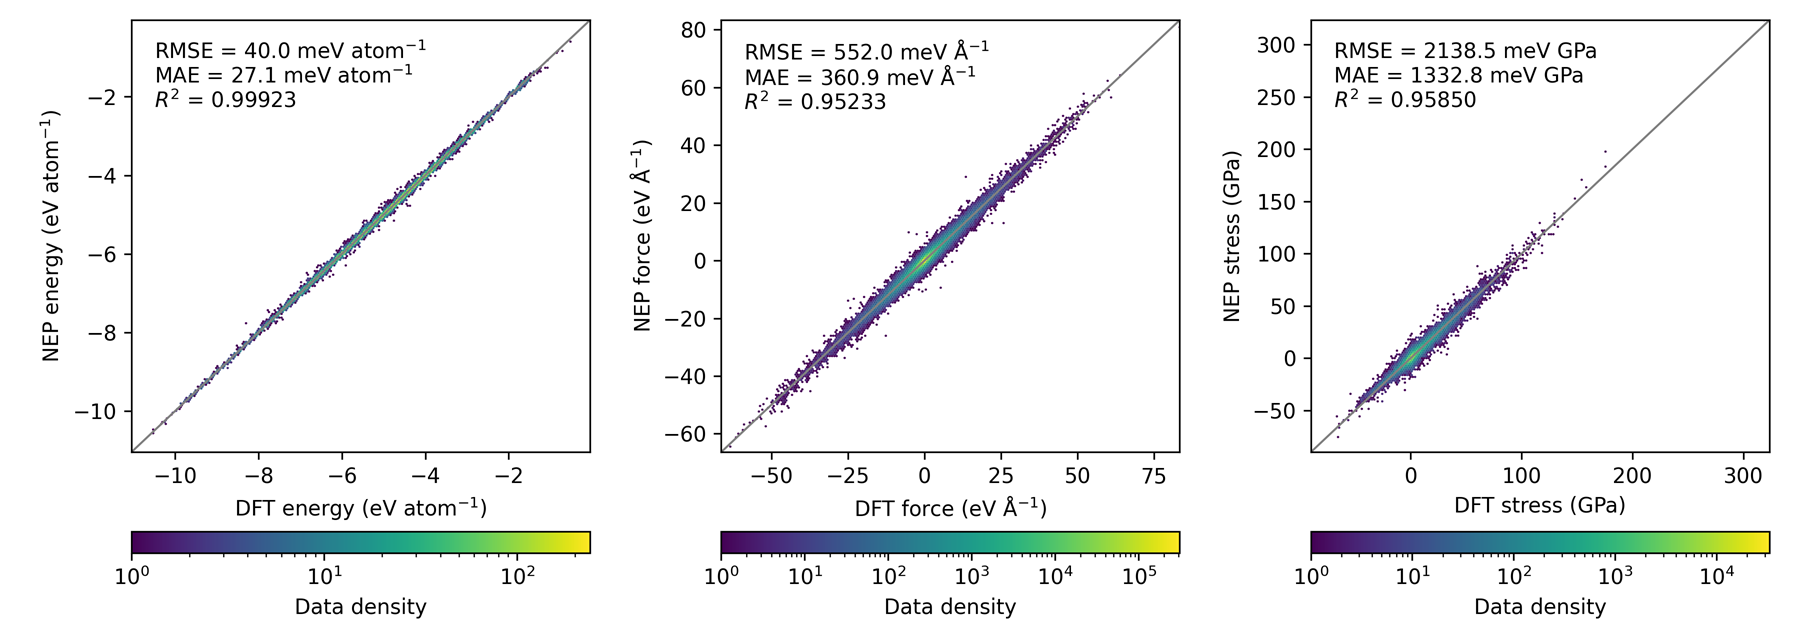
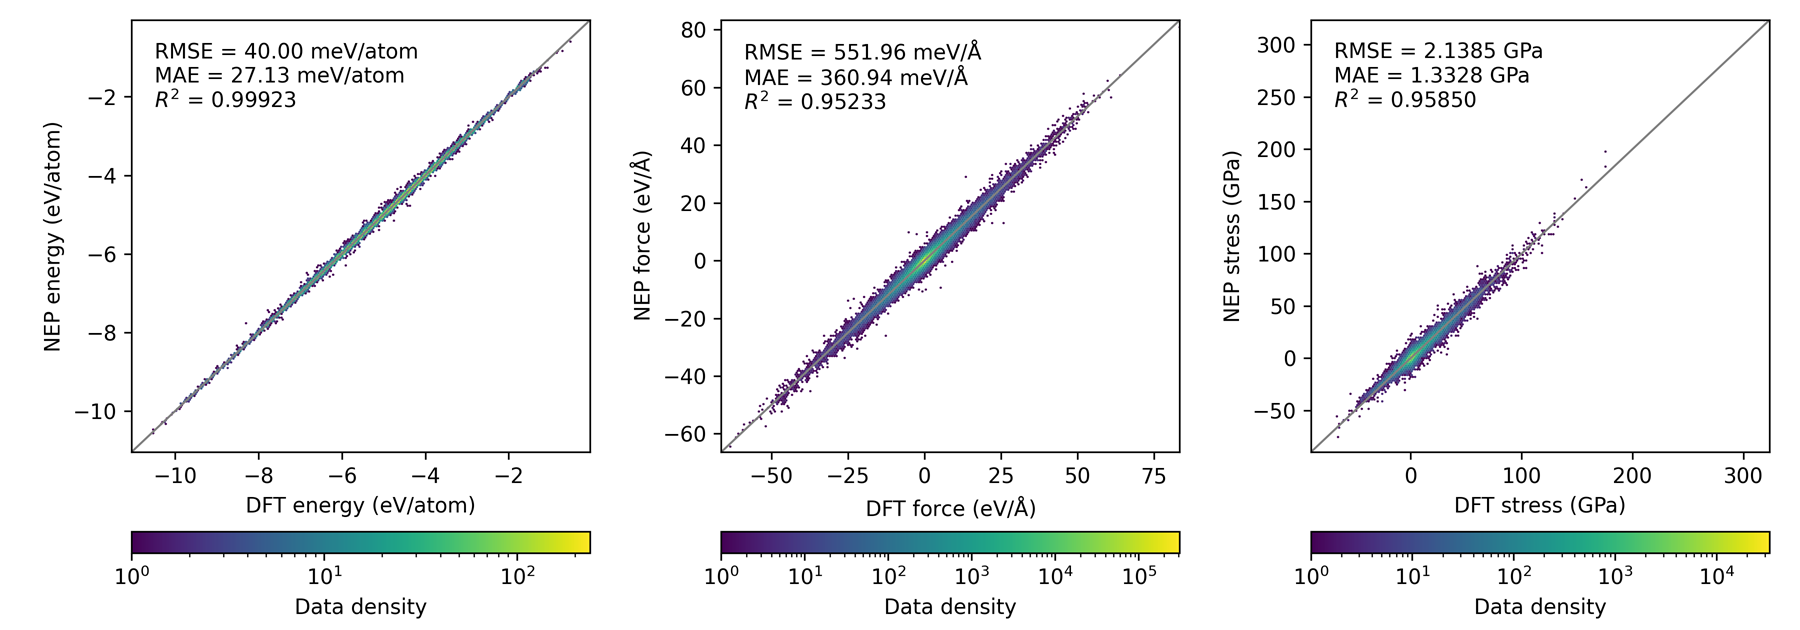
update

diff --git a/Scripts/plt_scripts/plt_parity_density.py b/Scripts/plt_scripts/plt_parity_density.py
@@ -17,77 +17,101 @@ energy_data = np.loadtxt('energy_train.out')
 force_data = np.loadtxt('force_train.out')
 stress_data = np.loadtxt('stress_train.out')
 
-# === Metric Function ===
-def compute_metrics(y_true, y_pred):
-    rmse = np.sqrt(mean_squared_error(y_true, y_pred)) * 1000
-    mae = mean_absolute_error(y_true, y_pred) * 1000
-    r2 = r2_score(y_true, y_pred)
-    return rmse, mae, r2
-
-# === Plot Function ===
-def parity_density_plot(ax, x, y, xlabel, ylabel, unit_str, cmap, bins):
-    xmin, xmax = np.min([x, y]), np.max([x, y])
-    ax.set_xlim(xmin, xmax)
-    ax.set_ylim(xmin, xmax)
-
-    hb = ax.hexbin(x, y, gridsize=bins, cmap=cmap,
-                   norm=LogNorm(), mincnt=1, linewidths=0)
-
-    ax.plot([xmin, xmax], [xmin, xmax], color='gray', linestyle='-', linewidth=1)
-    ax.set_xlabel(xlabel, fontsize=FONT_SIZE)
-    ax.set_ylabel(ylabel, fontsize=FONT_SIZE)
-    ax.tick_params(labelsize=FONT_SIZE)
-
-    # Metrics
-    rmse, mae, r2 = compute_metrics(y, x)
-    ax.text(0.05, 0.95,
-            f"RMSE = {rmse:.1f} meV {unit_str}\n"
-            f"MAE = {mae:.1f} meV {unit_str}\n"
-            r"$R^2$" + f" = {r2:.5f}",
-            transform=ax.transAxes,
-            fontsize=FONT_SIZE,
-            va='top', ha='left')
-
-    return hb
-
 # === Layout Setup ===
-fig = plt.figure(figsize=(12, 4.2), dpi=120)
+fig = plt.figure(figsize=(12, 4.2), dpi=1000)
 gs = GridSpec(2, 3, height_ratios=[4, 0.2], hspace=0.35)
 cmap = plt.get_cmap(COLORMAP)
-
-# === Plot Creation Function ===
-def create_plot(ax, cb_ax, x, y, xlabel, ylabel, unit_str, cmap, bins):
-    hb = parity_density_plot(ax, x, y, xlabel, ylabel, unit_str, cmap, bins)
-    cb = fig.colorbar(hb, cax=cb_ax, orientation='horizontal')
-    cb.set_label("Data density", fontsize=FONT_SIZE)
-    cb.ax.tick_params(labelsize=FONT_SIZE)
-    cb.locator = LogLocator(base=10.0)  
-    cb.formatter = LogFormatterMathtext(base=10, labelOnlyBase=True)  
-    cb.update_ticks()
 
 # === Energy ===
 ax1 = fig.add_subplot(gs[0, 0])
 cb1_ax = fig.add_subplot(gs[1, 0])
-create_plot(ax1, cb1_ax, energy_data[:, 1], energy_data[:, 0],
-            "DFT energy (eV atom$^{-1}$)",
-            "NEP energy (eV atom$^{-1}$)",
-            "atom$^{-1}$", cmap, BINS)
+xmin, xmax = np.min([energy_data[:, 1], energy_data[:, 0]]), np.max([energy_data[:, 1], energy_data[:, 0]])
+ax1.set_xlim(xmin, xmax)
+ax1.set_ylim(xmin, xmax)
+hb1 = ax1.hexbin(energy_data[:, 1], energy_data[:, 0], gridsize=BINS, cmap=cmap,
+                 norm=LogNorm(), mincnt=1, linewidths=0)
+ax1.plot([xmin, xmax], [xmin, xmax], color='gray', linestyle='-', linewidth=1)
+ax1.set_xlabel("DFT energy (eV/atom)", fontsize=FONT_SIZE)
+ax1.set_ylabel("NEP energy (eV/atom)", fontsize=FONT_SIZE)
+ax1.tick_params(labelsize=FONT_SIZE)
+rmse = np.sqrt(mean_squared_error(energy_data[:, 0], energy_data[:, 1])) * 1000
+mae = mean_absolute_error(energy_data[:, 0], energy_data[:, 1]) * 1000
+r2 = r2_score(energy_data[:, 0], energy_data[:, 1])
+ax1.text(0.05, 0.95,
+         f"RMSE = {rmse:.2f} meV/atom\n"
+         f"MAE = {mae:.2f} meV/atom\n"
+         r"$R^2$" + f" = {r2:.5f}",
+         transform=ax1.transAxes,
+         fontsize=FONT_SIZE,
+         va='top', ha='left')
+cb1 = fig.colorbar(hb1, cax=cb1_ax, orientation='horizontal')
+cb1.set_label("Data density", fontsize=FONT_SIZE)
+cb1.ax.tick_params(labelsize=FONT_SIZE)
+cb1.locator = LogLocator(base=10.0)
+cb1.formatter = LogFormatterMathtext(base=10, labelOnlyBase=True)
+cb1.update_ticks()
 
 # === Force ===
 ax2 = fig.add_subplot(gs[0, 1])
 cb2_ax = fig.add_subplot(gs[1, 1])
-create_plot(ax2, cb2_ax, force_data[:, 3:6].reshape(-1), force_data[:, 0:3].reshape(-1),
-            "DFT force (eV Å$^{-1}$)",
-            "NEP force (eV Å$^{-1}$)",
-            "Å$^{-1}$", cmap, BINS)
+x_force = force_data[:, 3:6].reshape(-1)
+y_force = force_data[:, 0:3].reshape(-1)
+xmin, xmax = np.min([x_force, y_force]), np.max([x_force, y_force])
+ax2.set_xlim(xmin, xmax)
+ax2.set_ylim(xmin, xmax)
+hb2 = ax2.hexbin(x_force, y_force, gridsize=BINS, cmap=cmap,
+                 norm=LogNorm(), mincnt=1, linewidths=0)
+ax2.plot([xmin, xmax], [xmin, xmax], color='gray', linestyle='-', linewidth=1)
+ax2.set_xlabel("DFT force (eV/$\mathrm{\AA}$)", fontsize=FONT_SIZE)
+ax2.set_ylabel("NEP force (eV/$\mathrm{\AA}$)", fontsize=FONT_SIZE)
+ax2.tick_params(labelsize=FONT_SIZE)
+rmse = np.sqrt(mean_squared_error(y_force, x_force)) * 1000
+mae = mean_absolute_error(y_force, x_force) * 1000
+r2 = r2_score(y_force, x_force)
+ax2.text(0.05, 0.95,
+         f"RMSE = {rmse:.2f} meV/Å\n"
+         f"MAE = {mae:.2f} meV/Å\n"
+         r"$R^2$" + f" = {r2:.5f}",
+         transform=ax2.transAxes,
+         fontsize=FONT_SIZE,
+         va='top', ha='left')
+cb2 = fig.colorbar(hb2, cax=cb2_ax, orientation='horizontal')
+cb2.set_label("Data density", fontsize=FONT_SIZE)
+cb2.ax.tick_params(labelsize=FONT_SIZE)
+cb2.locator = LogLocator(base=10.0)
+cb2.formatter = LogFormatterMathtext(base=10, labelOnlyBase=True)
+cb2.update_ticks()
 
 # === Stress ===
 ax3 = fig.add_subplot(gs[0, 2])
 cb3_ax = fig.add_subplot(gs[1, 2])
-create_plot(ax3, cb3_ax, stress_data[:, 6:12].reshape(-1), stress_data[:, 0:6].reshape(-1),
-            "DFT stress (GPa)",
-            "NEP stress (GPa)",
-            "GPa", cmap, BINS)
+x_stress = stress_data[:, 6:12].reshape(-1)
+y_stress = stress_data[:, 0:6].reshape(-1)
+xmin, xmax = np.min([x_stress, y_stress]), np.max([x_stress, y_stress])
+ax3.set_xlim(xmin, xmax)
+ax3.set_ylim(xmin, xmax)
+hb3 = ax3.hexbin(x_stress, y_stress, gridsize=BINS, cmap=cmap,
+                 norm=LogNorm(), mincnt=1, linewidths=0)
+ax3.plot([xmin, xmax], [xmin, xmax], color='gray', linestyle='-', linewidth=1)
+ax3.set_xlabel("DFT stress (GPa)", fontsize=FONT_SIZE)
+ax3.set_ylabel("NEP stress (GPa)", fontsize=FONT_SIZE)
+ax3.tick_params(labelsize=FONT_SIZE)
+rmse = np.sqrt(mean_squared_error(y_stress, x_stress))
+mae = mean_absolute_error(y_stress, x_stress)
+r2 = r2_score(y_stress, x_stress)
+ax3.text(0.05, 0.95,
+         f"RMSE = {rmse:.4f} GPa\n"
+         f"MAE = {mae:.4f} GPa\n"
+         r"$R^2$" + f" = {r2:.5f}",
+         transform=ax3.transAxes,
+         fontsize=FONT_SIZE,
+         va='top', ha='left')
+cb3 = fig.colorbar(hb3, cax=cb3_ax, orientation='horizontal')
+cb3.set_label("Data density", fontsize=FONT_SIZE)
+cb3.ax.tick_params(labelsize=FONT_SIZE)
+cb3.locator = LogLocator(base=10.0)
+cb3.formatter = LogFormatterMathtext(base=10, labelOnlyBase=True)
+cb3.update_ticks()
 
 plt.subplots_adjust(top=0.968, bottom=0.122, left=0.073, right=0.983, hspace=0.2, wspace=0.286)
 
@@ -101,4 +125,4 @@ else:
         print("The plot has been automatically saved as 'parity_plot_density.png'.")
         plt.savefig('parity_plot_density.png', dpi=300)
     else:
-        plt.show()        
+        plt.show()
